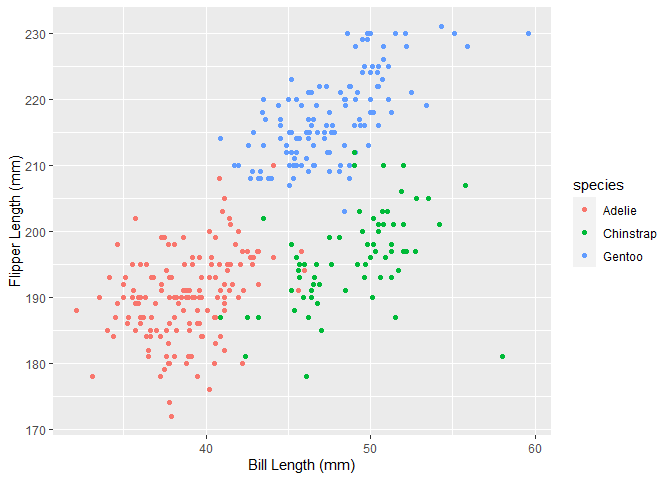
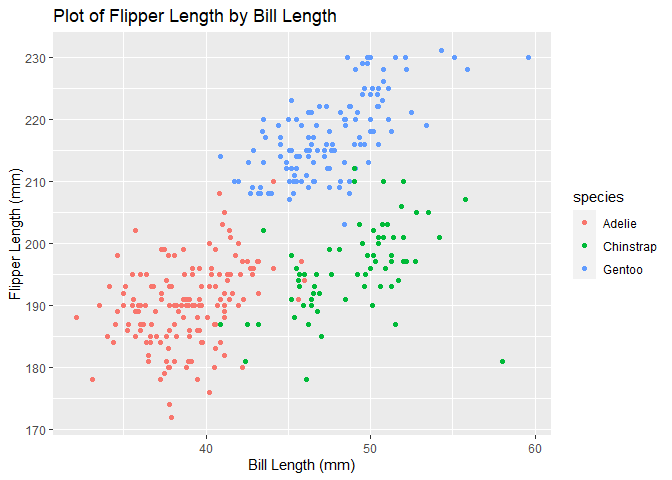
export scatterplot

diff --git a/p8105_hw1_sec2209.md b/p8105_hw1_sec2209.md
@@ -23,14 +23,14 @@ The code chunk then attempts to take the mean of each variable.
 library(tidyverse)
 ```
 
-    ## -- Attaching packages --------------------------------------------------------- tidyverse 1.3.0 --
+    ## -- Attaching packages ---------------------------------------------------------- tidyverse 1.3.0 --
 
     ## v ggplot2 3.3.2     v purrr   0.3.4
     ## v tibble  3.0.3     v dplyr   1.0.2
     ## v tidyr   1.1.2     v stringr 1.4.0
     ## v readr   1.3.1     v forcats 0.5.0
 
-    ## -- Conflicts ------------------------------------------------------------ tidyverse_conflicts() --
+    ## -- Conflicts ------------------------------------------------------------- tidyverse_conflicts() --
     ## x dplyr::filter() masks stats::filter()
     ## x dplyr::lag()    masks stats::lag()
 
@@ -45,7 +45,7 @@ problem1_df = tibble(
 mean(problem1_df$vec_numeric)
 ```
 
-    ## [1] 0.3665021
+    ## [1] 0.1724843
 
 ``` r
 mean(problem1_df$vec_logical)
@@ -71,7 +71,7 @@ mean(problem1_df$vec_factor)
 
     ## [1] NA
 
-The mean of the random numeric variable is 0.37 and the mean of the
+The mean of the random numeric variable is 0.17 and the mean of the
 logical variable is 0.7. Means are unable to be calculated from the
 character or factor variables since these variables cannot be implicitly
 coerced into numeric variables.
@@ -139,13 +139,21 @@ included in this dataset are 2007, 2008, 2009.
 The mean flipper length is 200.92 mm, and the mean bill length is 43.92
 mm.
 
-The next **code chunk** creates a scatterplot of flipper length by bill
+The next code chunk creates a scatterplot of flipper length by bill
 length, color coded by species of penguin.
 
 ``` r
-ggplot(penguins, aes(x = bill_length_mm, y = flipper_length_mm, color = species)) + geom_point() + xlab("Bill Length (mm)") + ylab("Flipper Length (mm)")
+ggplot(penguins, aes(x = bill_length_mm, y = flipper_length_mm, color = species)) + geom_point() + xlab("Bill Length (mm)") + ylab("Flipper Length (mm)") + ggtitle("Plot of Flipper Length by Bill Length")
 ```
 
     ## Warning: Removed 2 rows containing missing values (geom_point).
 
 ![](p8105_hw1_sec2209_files/figure-gfm/problem2_b-1.png)<!-- -->
+
+``` r
+ggsave("p8105_hw1_problem2_sec2209.png")
+```
+
+    ## Saving 7 x 5 in image
+
+    ## Warning: Removed 2 rows containing missing values (geom_point).
